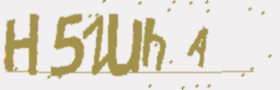
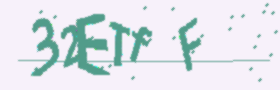
Add button for testing, add retries for captcha verifier

diff --git a/cogs/verifier.py b/cogs/verifier.py
@@ -8,7 +8,7 @@ from bot import DiscordBot
 import string
 import os
 from modules.environment import ROLE_ADMIN
-from modules.buttons import VerifyButton
+from modules.buttons import VerifyEmbed
 
 # Here we name the cog and create a new class for the cog.
 class Verifier(commands.Cog, name="verifier"):
@@ -17,10 +17,29 @@ class Verifier(commands.Cog, name="verifier"):
 
     # Here you can just add your own commands, you'll always need to provide "self" as first parameter.
 
+    async def retry_captcha(self, context:Context, tries=0, captcha_text=""):
+        if tries >=3:
+            await context.author.send("Sorry you entered wrong captcha 3 times! Please request verification again from the channel",silent=True, delete_after=3)
+        else:
+            while True:
+                msg = await self.bot.wait_for("message", check=lambda check: check.author.id == context.author.id)
+                if msg.guild == None:
+                    break
+            if msg.content.lower() == captcha_text.lower():
+                await context.author.send("Captcha correct! Welcome to the server!")
+                role = discord.utils.get(context.guild.roles, name="Verified")
+                await context.author.add_roles(role)
+            else:
+                await context.author.send("Incorrect captcha entered, please try again",silent=True, delete_after=3)
+                await self.retry_captcha(context = context, 
+                                        tries = tries + 1, 
+                                        captcha_text = captcha_text)
+    
     @commands.hybrid_command(
         name="verify",
         description="This is example for verifier.",
     )
+    @commands.guild_only()
     async def verify_user(self, context: Context) -> None:
         """
         This is a testing command that does nothing.
@@ -44,21 +63,8 @@ class Verifier(commands.Cog, name="verifier"):
             
             await context.author.send("Please verify from this captcha", file=discord.File(f"{os.path.dirname(os.path.dirname(__file__))}/resources/image/CAPTCHA.png"))
             
-            print(captcha_text)
+            await self.retry_captcha(context=context,captcha_text=captcha_text)
             
-            while True:
-                msg = await self.bot.wait_for("message", check=lambda check: check.author.id == context.author.id)
-                if msg.guild == None:
-                    break
-            
-            print(msg.content)
-            
-            if msg.content.lower() == captcha_text.lower():
-                await context.author.send("Correct!")
-                role = discord.utils.get(context.guild.roles, name="Verified")
-                await context.author.add_roles(role)
-            else:
-                await context.author.send("Incorrect captcha")
 
     @commands.hybrid_command(
         name="insert_verify",
@@ -69,8 +75,10 @@ class Verifier(commands.Cog, name="verifier"):
         channel="Channel to send to"
     )
     async def send_verify(self, context: Context, channel: discord.TextChannel) -> None:
+        print("Getting channel")
         channel = context.guild.get_channel(channel.id)
-        await channel.send(content="Button", view=VerifyButton())
+        print("sending button")
+        await channel.send(content="Button", view=VerifyEmbed())
         
 # And then we finally add the cog to the bot so that it can load, unload, reload and use it's content.
 async def setup(bot) -> None:

diff --git a/bot.py b/bot.py
@@ -64,7 +64,7 @@ intents.members = True
 
 
 class DiscordBot(commands.Bot):
-    def __init__(self) -> None:
+    def __init__(self: commands.Bot) -> None:
         super().__init__(
             command_prefix=commands.when_mentioned_or(config["prefix"]),
             intents=intents,
@@ -240,10 +240,18 @@ class DiscordBot(commands.Bot):
                 color=0xE02B2B,
             )
             await context.send(embed=embed)
-            
+        elif isinstance(error, commands.NoPrivateMessage):
+            embed = discord.Embed(
+                title="Error!",
+                # We need to capitalize because the command arguments have no capital letter in the code and they are the first word in the error message.
+                description=str(error).capitalize(),
+                color=0xE02B2B,
+            )
+            await context.send(embed=embed)
         else:
             raise error
-
+    async def close(self):
+        await super().close()  # don't forget this!
 
 
 
@@ -253,4 +261,5 @@ if __name__ == '__main__':
         while True:
             bot.run(BOT_TOKEN)
     except KeyboardInterrupt:
+        bot.close()
         exit()

diff --git a/modules/buttons.py b/modules/buttons.py
@@ -2,12 +2,13 @@ import discord
 from discord.ext import commands
 
 
-class VerifyButton(discord.ui.View):
-    def __init__(self, timeout: float | None = 180):
+class VerifyEmbed(discord.ui.View):
+    def __init__(self, *, timeout=180):
         super().__init__(timeout=timeout)
-        self.add_item(discord.ui.Button(label="Verify",custom_id="verify", style=discord.ButtonStyle.green))
         
-        @discord.ui.button(custom_id="verify")
-        async def verify_button(self, button: discord.ui.Button, interaction: discord.Interaction):
-            print(interaction.user)
-            await interaction.user.send(f"Hello")
+    @discord.ui.button(label="Verify Test", style=discord.ButtonStyle.green)
+    async def verify_button(self, interaction: discord.Interaction, button: discord.ui.Button):
+        print(button)
+        print(interaction)
+        button.disabled = True
+        await interaction.response.send_message(content="TEstsetests", view=self, ephemeral=True)

diff --git a/cogs/joinleave.py b/cogs/joinleave.py
@@ -8,8 +8,6 @@ from modules.utils import logger
 from easy_pil import Editor, load_image_async, Font
 import os
 import random
-from captcha.image import ImageCaptcha
-import string
 
 class JoinLeave(commands.Cog, name="joinleave"):
     def __init__(self, bot: DiscordBot) -> None:
